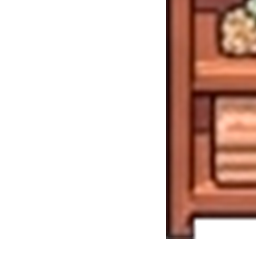
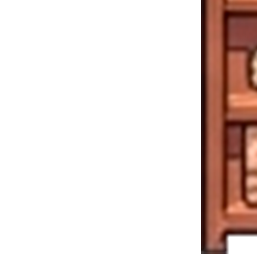
adiciondos assests fase3

diff --git a/jogo/Data/fase3.js b/jogo/Data/fase3.js
@@ -11,11 +11,165 @@ const Fase3 = {
   "height": 64,
   "player": {
     "velocidade": 4,
-    "x": 896,
-    "y": 1024,
+    "x": 448,
+    "y": 640,
     "img": "../Imagem/personagens/clara.png"
   },
-  "plataforma1": [],
+  "plataforma1": [
+    {
+      "id": "tile_64_576",
+      "x": 50,
+      "y": 536,
+      "width": 64,
+      "height": 64,
+      "img": "../Imagem/editor_uploads/fase3/1787144631685_plantac.png",
+      "efeito": false
+    },
+    {
+      "id": "tile_64_512",
+      "x": 50,
+      "y": 472,
+      "width": 64,
+      "height": 64,
+      "img": "../Imagem/editor_uploads/fase3/1787144631689_plantab.png",
+      "efeito": false
+    },
+    {
+      "id": "tile_64_448",
+      "x": 50,
+      "y": 408,
+      "width": 64,
+      "height": 64,
+      "img": "../Imagem/editor_uploads/fase3/1787144631692_plantaa.png",
+      "efeito": false
+    },
+    {
+      "id": "tile_128_576",
+      "x": 128,
+      "y": 576,
+      "width": 64,
+      "height": 64,
+      "img": "../Imagem/editor_uploads/fase3/1787144631694_estante-massagema.png",
+      "efeito": false
+    },
+    {
+      "id": "tile_128_640",
+      "x": 128,
+      "y": 640,
+      "width": 64,
+      "height": 64,
+      "img": "../Imagem/editor_uploads/fase3/1787144631697_estante-massagemb.png",
+      "efeito": false
+    },
+    {
+      "id": "tile_192_640",
+      "x": 192,
+      "y": 640,
+      "width": 64,
+      "height": 64,
+      "img": "../Imagem/editor_uploads/fase3/1787144631699_estante-massagemd.png",
+      "efeito": false
+    },
+    {
+      "id": "tile_192_576",
+      "x": 192,
+      "y": 576,
+      "width": 64,
+      "height": 64,
+      "img": "../Imagem/editor_uploads/fase3/1787144631701_estante-massagemc.png",
+      "efeito": false
+    },
+    {
+      "id": "tile_64_896",
+      "x": 50,
+      "y": 896,
+      "width": 64,
+      "height": 64,
+      "img": "../Imagem/editor_uploads/fase3/1787144631703_cadeira4-massagem.png",
+      "efeito": false
+    },
+    {
+      "id": "tile_64_832",
+      "x": 50,
+      "y": 832,
+      "width": 64,
+      "height": 64,
+      "img": "../Imagem/editor_uploads/fase3/1787144631703_cadeira4-massagem.png",
+      "efeito": false
+    },
+    {
+      "id": "tile_192_896",
+      "x": 192,
+      "y": 896,
+      "width": 64,
+      "height": 64,
+      "img": "../Imagem/editor_uploads/fase3/1787144631706_mesadecentrob.png",
+      "efeito": false
+    },
+    {
+      "id": "tile_192_832",
+      "x": 192,
+      "y": 832,
+      "width": 64,
+      "height": 64,
+      "img": "../Imagem/editor_uploads/fase3/1787144631709_mesadecentroa.png",
+      "efeito": false
+    },
+    {
+      "id": "tile_256_512",
+      "x": 286,
+      "y": 462,
+      "width": 64,
+      "height": 64,
+      "img": "../Imagem/editor_uploads/fase3/1787144631711_bebedouroa.png",
+      "efeito": false
+    },
+    {
+      "id": "tile_256_576",
+      "x": 286,
+      "y": 526,
+      "width": 64,
+      "height": 64,
+      "img": "../Imagem/editor_uploads/fase3/1787144631713_bebedourob.png",
+      "efeito": false
+    },
+    {
+      "id": "tile_128_448",
+      "x": 128,
+      "y": 448,
+      "width": 64,
+      "height": 64,
+      "img": "../Imagem/editor_uploads/fase3/1787144631716_lousaa.png",
+      "efeito": false
+    },
+    {
+      "id": "tile_192_448",
+      "x": 192,
+      "y": 448,
+      "width": 64,
+      "height": 64,
+      "img": "../Imagem/editor_uploads/fase3/1787144631718_lousab.png",
+      "efeito": false
+    },
+    {
+      "id": "tile_64_704",
+      "x": 40,
+      "y": 738,
+      "width": 64,
+      "height": 64,
+      "img": "../Imagem/editor_uploads/fase3/1787144631722_solanum-licopersium1.1.png",
+      "efeito": false
+    },
+    {
+      "id": "tile_64_768",
+      "x": 40,
+      "y": 802,
+      "width": 64,
+      "height": 64,
+      "img": "../Imagem/editor_uploads/fase3/1787144631720_solanum-licopersium1.2.png",
+      "efeito": false
+    }
+  ],
   "paredes": [
     {
       "id": "parede_0_1000",
@@ -299,7 +453,7 @@ const Fase3 = {
     },
     {
       "id": "parede_0_768",
-      "x": -24,
+      "x": 6,
       "y": 768,
       "width": 64,
       "height": 64,
@@ -307,7 +461,7 @@ const Fase3 = {
     },
     {
       "id": "parede_0_832",
-      "x": -24,
+      "x": 30,
       "y": 832,
       "width": 64,
       "height": 64,
@@ -315,7 +469,7 @@ const Fase3 = {
     },
     {
       "id": "parede_0_896",
-      "x": -24,
+      "x": 30,
       "y": 896,
       "width": 64,
       "height": 64,
@@ -419,8 +573,8 @@ const Fase3 = {
     },
     {
       "id": "parede_64_448",
-      "x": 64,
-      "y": 448,
+      "x": 30,
+      "y": 470,
       "width": 64,
       "height": 64,
       "img": ""
@@ -443,9 +597,9 @@ const Fase3 = {
     },
     {
       "id": "parede_256_448",
-      "x": 280,
-      "y": 448,
-      "width": 64,
+      "x": 304,
+      "y": 470,
+      "width": 30,
       "height": 64,
       "img": ""
     },
@@ -816,7 +970,31 @@ const Fase3 = {
       "width": 32,
       "height": 64,
       "img": ""
-    }
+    },
+    {
+      "id": "parede_192_832",
+      "x": 208,
+      "y": 852,
+      "width": 32,
+      "height": 44,
+      "img": ""
+    },
+    {
+      "id": "parede_192_832",
+      "x": 148,
+      "y": 630,
+      "width": 92,
+      "height": 20,
+      "img": ""
+    },
+    {
+      "id": "parede_192_832",
+      "x": 174,
+      "y": 580,
+      "width": 1,
+      "height": 8,
+      "img": ""
+    },
   ],
   "interacoes": [
     {

diff --git a/jogo/Data/faseRegistry.js b/jogo/Data/faseRegistry.js
@@ -6,7 +6,6 @@ import Fase3 from "./fase3.js";
 // AUTO_IMPORTS_START
 // (não remova) - imports gerados automaticamente pelo Editor de Fases
 import Fase01 from "./fase_01.js";
-import Fase02 from "./fase_02.js";
 import FaseInicio from "./fase_inicio.js";
 // AUTO_IMPORTS_END
 
@@ -54,14 +53,6 @@ const FASES_PADRAO = {
     background: "../Imagem/editor_uploads/fase_01/1786371159926_fase1.png",
     htmlPath: "fase_01.html",
     data: Fase01,
-    origem: "padrao",
-  },
-  fase_02: {
-    id: "fase_02",
-    nome: "Biblioteca",
-    background: "../Imagem/editor_uploads/fase_02/1786449093193_biblioteca.png",
-    htmlPath: "fase_02.html",
-    data: Fase02,
     origem: "padrao",
   },
   fase_inicio: {
